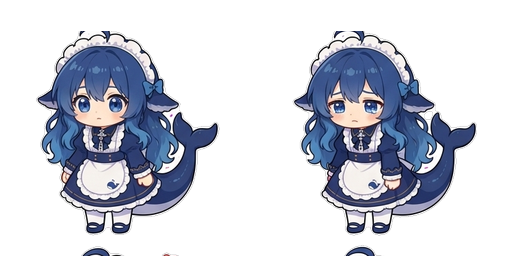
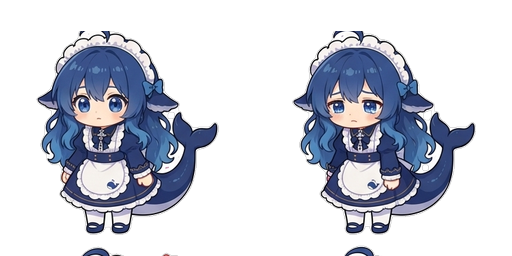
fix(assets): 全量洋红清除——角色纯蓝白确认后算法极简化
- 用户确认：鲸鱼娘=深蓝+白，无任何粉/紫（此前'内部设计粉'实为封闭岛污染）
- 关键事实：角色所有颜色 sp=min(R,B)-G ≤0（蓝 -32、白 0）→ **任何 sp>25 的像素都不是角色**
- magenta_free_cleanup：全位置（不分内外）sp>25 即删——内部封闭岛、外部残边、低饱和粉一次性清零
- 效果：13 张洋红残留 0~1px；白 8~22K、蓝 21~49K px 完整保留
- 验证：web 无崩溃、assets 200、冒烟 OK

diff --git a/scripts/slice-sheet.py b/scripts/slice-sheet.py
@@ -142,6 +142,25 @@ def bg_floodfill(img, bg_colors, tol):
     return out
 
 
+def magenta_free_cleanup(img, sp_thresh=25):
+    """全量洋红清除（用户确认：角色=深蓝+白，无任何粉/紫）。
+    深蓝 (64,96,144) sp=-32、白 (255,255,255) sp=0——角色所有颜色 sp≤0；
+    故 **任何 sp>25 的像素（含内部封闭岛、外部残边、低饱和粉调）都不是角色** → 删。
+    不分内外：内部岛（轮廓间隙透出的底色）一并清除，且零误删风险。"""
+    import numpy as np
+    from PIL import Image as _Image
+
+    arr = np.asarray(img.convert('RGBA'), dtype=np.int16)
+    a = arr[:, :, 3]
+    r, g, b = arr[:, :, 0], arr[:, :, 1], arr[:, :, 2]
+    sp = np.minimum(r, b) - g
+    kill = (sp > sp_thresh) & (a > 0)
+    new_a = np.where(kill, 0, a).astype(np.uint8)
+    out = img.convert('RGBA')
+    out.putalpha(_Image.fromarray(new_a, 'L'))
+    return out
+
+
 def exterior_magenta_cleanup(img, sp_thresh=40, erode_r=5):
     """轮廓相对分类（用户要点：角色的颜色只在内部，外部底色可辨）：
     腐蚀 alpha 得角色核心（core）；**核心外**（轮廓边缘带/外圈）的粉调像素（sp>阈值）
@@ -368,11 +387,11 @@ def main():
             # 背景色 = 声明色 ∪ 图像边框实际取色（模型常把"纯洋红"画偏，如 G=32 的暗洋红）
             bgs = [detect_bg(img)] if args.key == 'auto' else [[int(v) for v in c.split(',')] for c in args.key.split('|')]
             bgs = list({tuple(b) for b in bgs} | {tuple(detect_bg(img))})
-            img = bg_floodfill(img, bgs, tol=45)  # 边界洪泛去背景（连通性分割，保住与底色同色的角色部位）
-            img = closed_islands_cleanup(img, bgs)  # 封闭洋红岛：极饱和洋红残留直接删（角色哑光粉脸安全）
-            img = exterior_magenta_cleanup(img)  # 轮廓相对分类：核心外粉调=背景删，内部设计色保留
-            img = defringe(img, erode=2)  # 侵蚀 2px 剥掉边缘混合环 + 羽化（替代加法抑制——补 G 会产出绿边）
-            print(f'keyed: bg={bgs} floodfill+islands+exterior+defringe2', file=sys.stderr)
+            img = bg_floodfill(img, bgs, tol=45)  # 边界洪泛去背景（连通性分割）
+            img = closed_islands_cleanup(img, bgs)  # 封闭洋红岛（极饱和）
+            img = magenta_free_cleanup(img)  # 全量洋红清除：角色纯蓝白，sp>25 即非角色
+            img = defringe(img, erode=2)  # 侵蚀 2px 剥掉边缘混合环 + 羽化
+            print(f'keyed: bg={bgs} floodfill+islands+magenta-free+defringe2', file=sys.stderr)
         if args.repair:
             img = harden_alpha(img)
             print('repair: alpha hardened', file=sys.stderr)
